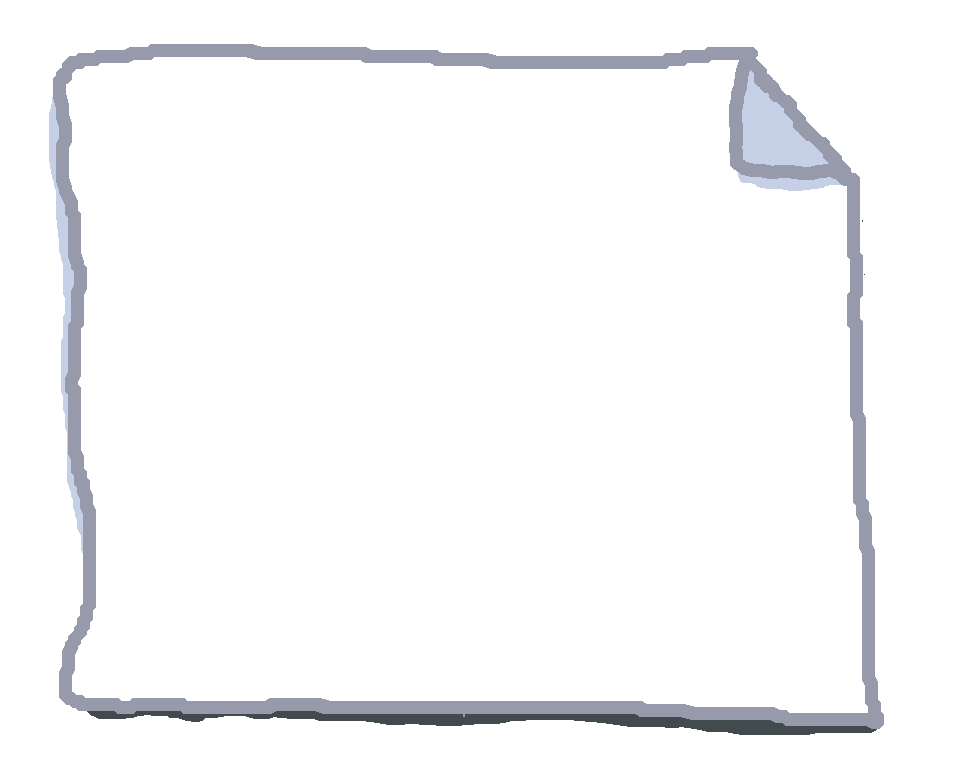
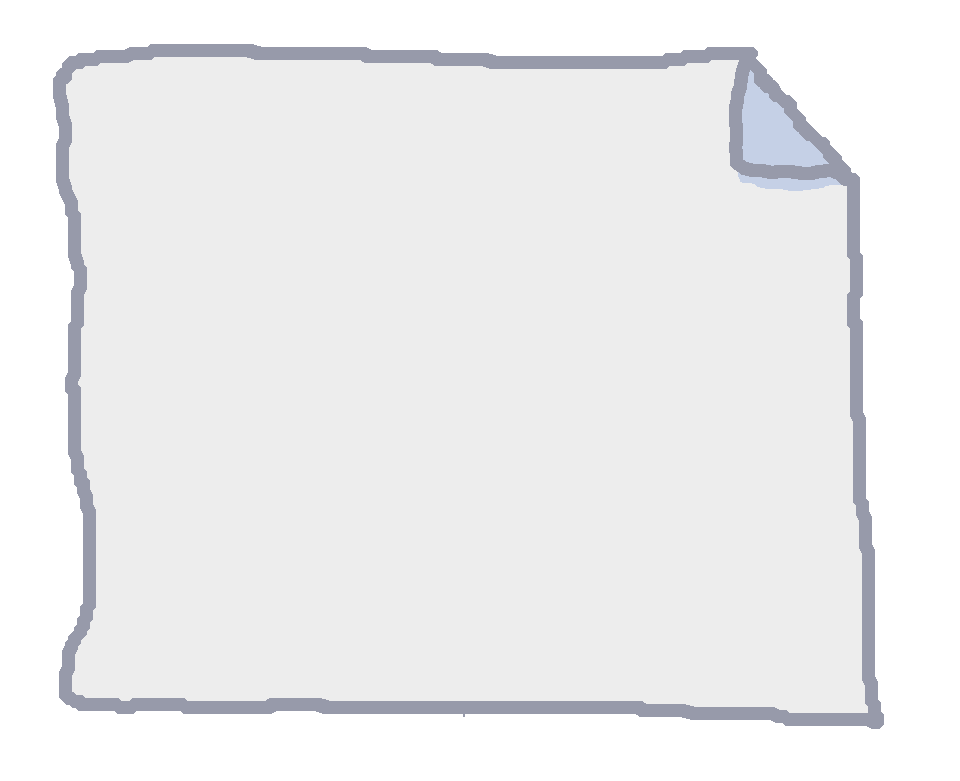
make paper not so white

Changed region(s): [[0.0938, 0.8912, 0.9062, 0.9526], [0.0312, 0.1229, 0.0938, 0.5531], [0.0625, 0.5839, 0.0938, 0.6761]]

diff --git a/themes/VJ26p/style.module.css b/themes/VJ26p/style.module.css
@@ -205,6 +205,12 @@
     clip-path: polygon(0% 0%, 0% var(--yClip), var(--xClip) var(--yClip), var(--xClip) 100%, 100% 100%, 100% 0%);
   }
 }
+.pregameOverlay {
+  .iconHolder{
+    position: relative;
+    background: url("./img/paper_white.png") center/contain no-repeat;
+  }
+}
 .sixteenNineDuo, .sixteenNineDuoSplitCam, .fourThreeDuo, .fourThreeDuoSplitCam {
   .gameView .border:after {
     top: var(--border_offset);
